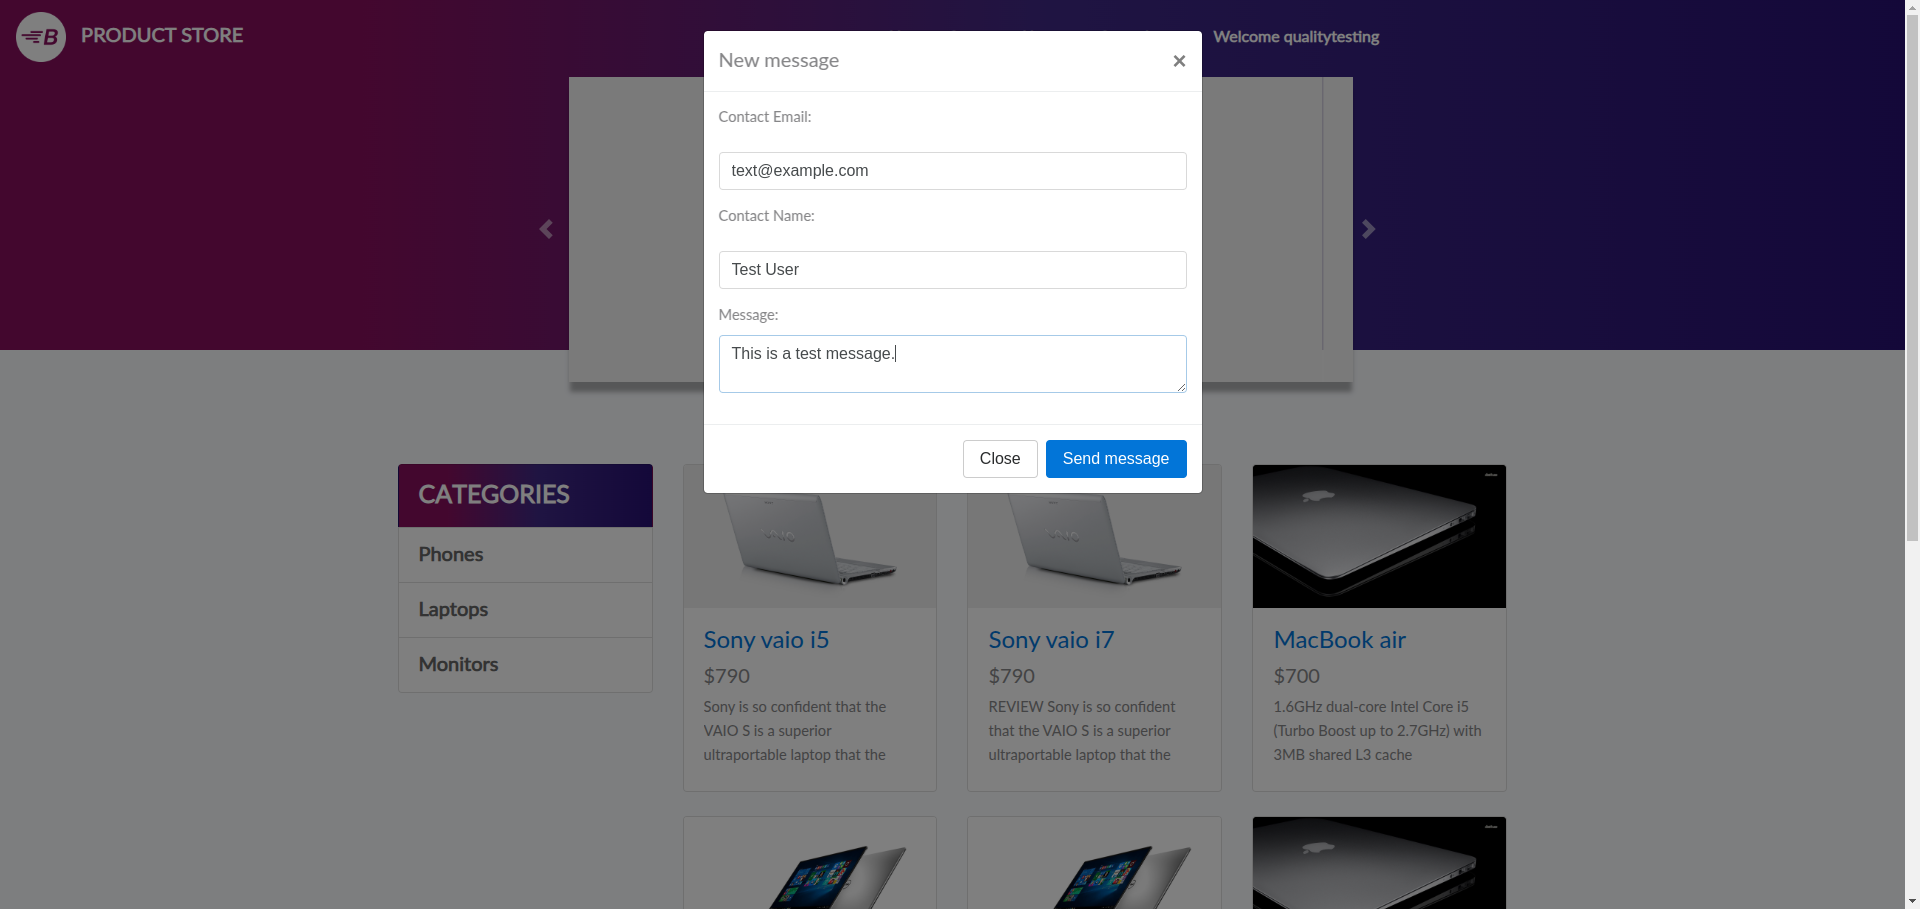
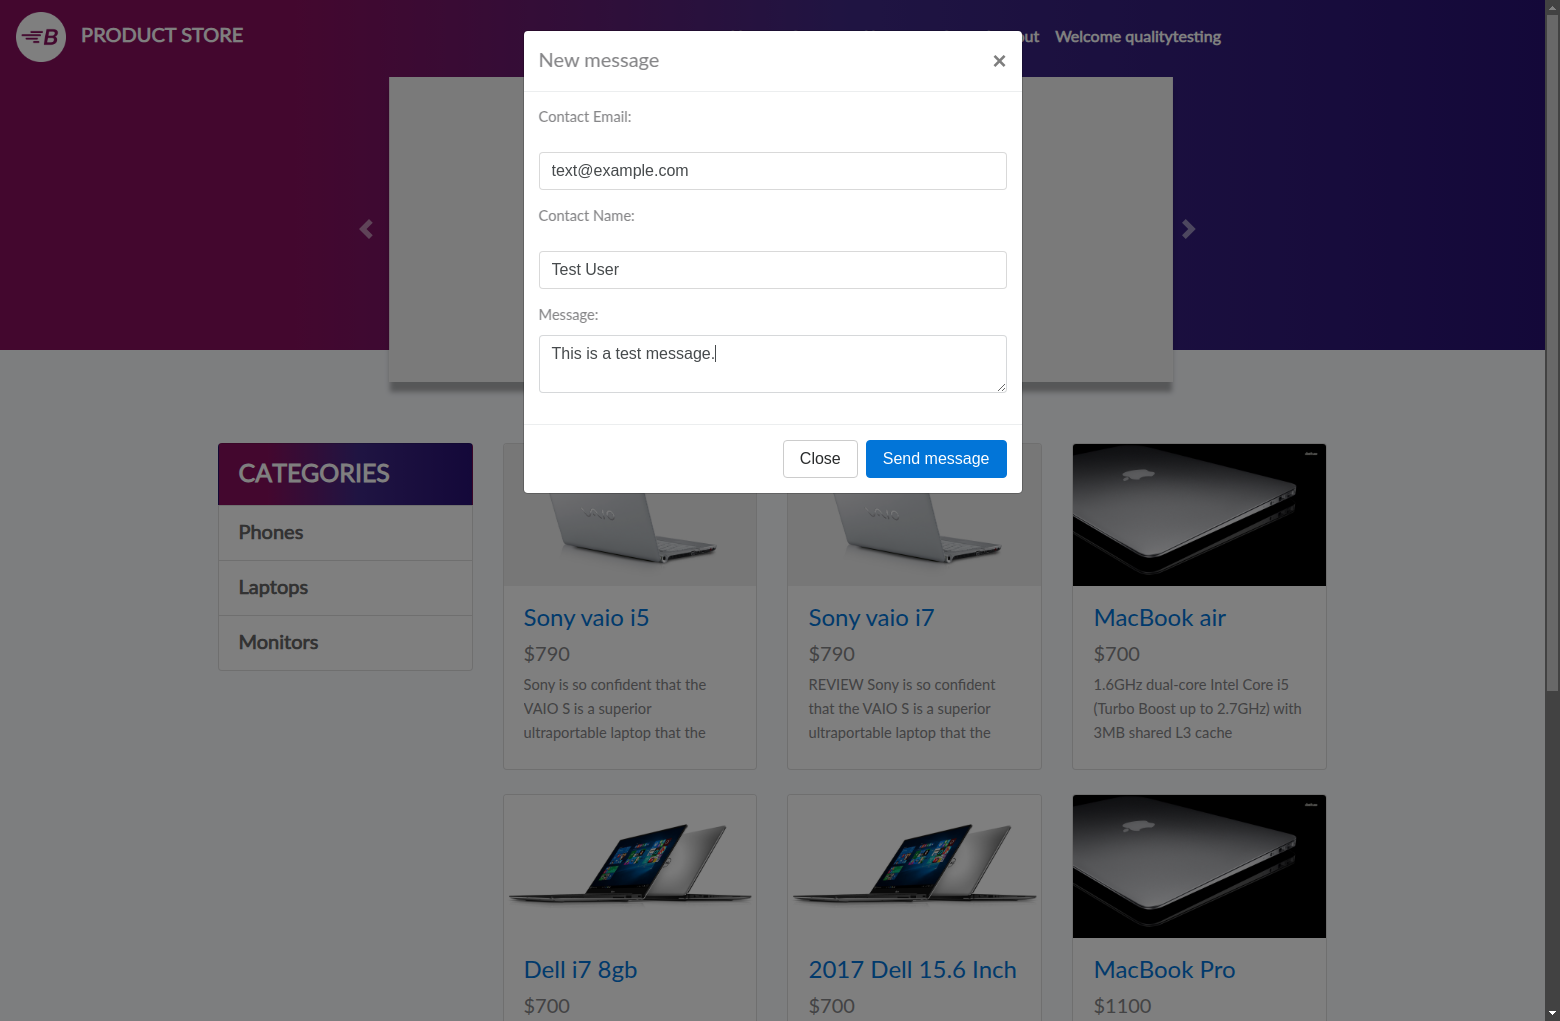
Completed Automation.

diff --git a/test.py b/test.py
@@ -4,8 +4,7 @@ from selenium.webdriver.chrome.options import Options
 from selenium.webdriver.common.by import By
 from selenium.webdriver.support.ui import WebDriverWait
 from selenium.webdriver.support import expected_conditions as EC
-from selenium.common.exceptions import NoSuchElementException
-from selenium.common.exceptions import NoAlertPresentException
+from selenium.common.exceptions import NoSuchElementException, NoAlertPresentException
 from time import sleep
 #from selenium.webdriver.chrome.service import Service as ChromeService
 #from webdriver_manager.chrome import ChromeDriverManager
@@ -13,6 +12,7 @@ from time import sleep
 
 
 chrome_options = Options()
+chrome_options.add_argument('--headless=new')
 chrome_options.platform_name = 'any'
 chrome_options.add_argument("start-maximized")
 
@@ -101,7 +101,7 @@ try:
 
 except NoSuchElementException:
     print("⚠ The specified div was not found.")
-driver.save_screenshot("./about.png")
+driver.save_screenshot("./ContactModel.png")
 
 
 
@@ -123,11 +123,64 @@ driver.find_element(By.XPATH, "//*[@id='exampleModal']//button[contains(text(), 
 
 # Accept the alert
 try:
-    WebDriverWait(driver, 5).until(EC.alert_is_present())
+    WebDriverWait(driver, 4).until(EC.alert_is_present())
     alert = driver.switch_to.alert
     alert.accept() 
     print("✅ Alert accepted successfully!")
 
 except NoAlertPresentException:
         print("❌ No alert was present after form submission.")
+
+
+#select category
+laptops_button = driver.find_element(By.XPATH, "//a[@id='itemc' and contains(text(), 'Monitors')]")
+laptops_button.click()
+WebDriverWait(driver, 10).until(EC.presence_of_element_located((By.ID, "tbodyid")))
+category_loaded = driver.execute_script("return arguments[0].getAttribute('onclick');", laptops_button)
+expected_category = "monitor" 
+actual_category = category_loaded.split("'")[1] 
+
+
+# Verify if the correct category is loaded
+assert expected_category == actual_category, f"Expected '{expected_category}', but got '{actual_category}'"
+sleep(2)
+wait.until(EC.visibility_of(driver.find_element(By.XPATH, "//*[@id='tbodyid']//img")))
+try:
+    parent_div = driver.find_element(By.ID, "tbodyid")  
+    div_content = parent_div.get_attribute("innerText").lower()  
+
+    if not "phone" in div_content or "notebook" in div_content:
+        print("✅ The Monitor filter successfully applied")
+    else:
+        print("❌ The string 'phone' & 'notebook' is present in the div and its children.")
+
+except NoSuchElementException:
+    print("⚠ The specified div was not found.")
+driver.save_screenshot("./monitorfilter.png")
+
+
+#select cart section
+
+driver.find_element(By.XPATH, "//*[@id='navbarExample']//a[contains(text(), 'Cart')]").click()
+try:
+    cart_title = driver.find_element(By.ID, "page-wrapper")
+    if cart_title.is_displayed():
+        print(f"✅ Cart section found")
+    else:
+        print("❌ Cart section not visible")
+except NoSuchElementException:
+    print("⚠ The specified div was not found.")
+driver.save_screenshot("./Cart.png")
+
+
+
+
+
+
+
+
+
+
+
+
 driver.quit()
